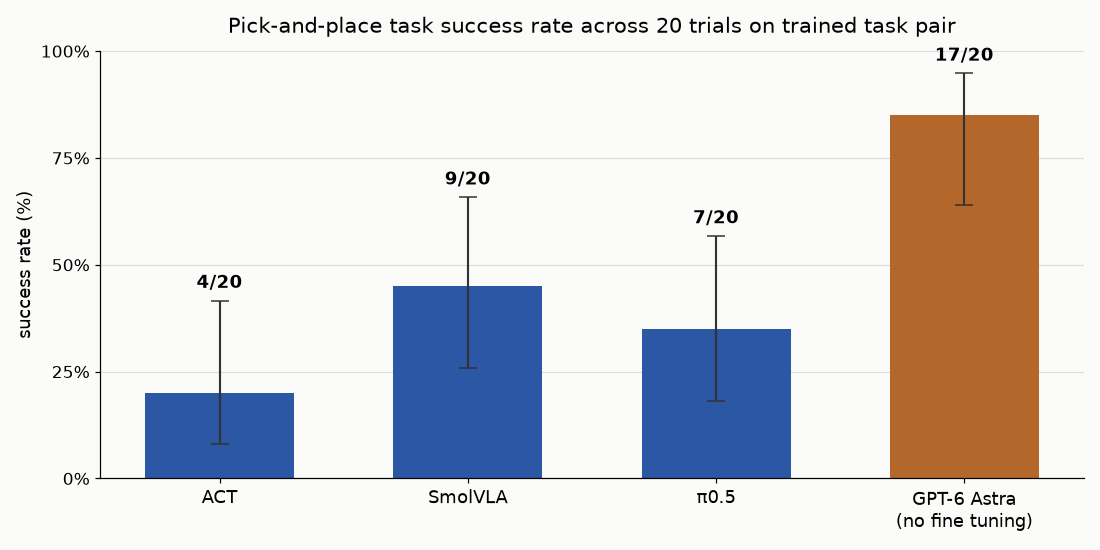
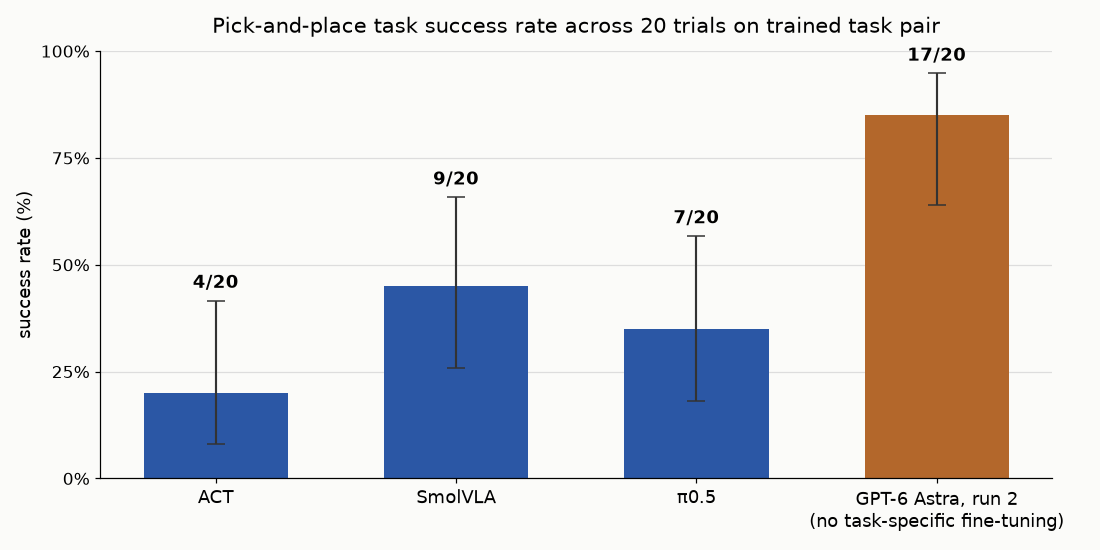
Sept 13 (late): chart wording for post #0 (stage names, demos labels, prediction legend, Astra run label), bowl labels in the overhead frame, sweep prediction record
Claude-Session: https://claude.ai/code/session_01EmA3j6H4is2ykSUSqH2bxg

diff --git a/experiments/tools/plot_results.py b/experiments/tools/plot_results.py
@@ -25,25 +25,25 @@ STAGE = {"no_reach": 0, "no_move": 0, "touch_no_grip": 1, "timeout": 1, "drop": 
 # Trials whose notes place them in a different stage than their failure bucket (read the CSV notes before adding one).
 STAGE_OVERRIDES = {("smolvla_wristonly_pair", 3): 2}  # "grasps at last chunk" then timed out
 STAGE_COLORS = ["#e8e8e3", "#c6d4ea", "#7fa3d6", "#2b57a5"]
-STAGE_NAMES = ["never reached", "reached, no grip", "grasped, lost it", "success"]
+STAGE_NAMES = ["no contact with block", "contact without grip", "grip without successful placement", "success"]
 
 # (csv name, label) in display order. All are the same 20 stickers on the trained pair unless the label says otherwise.
 RUNS = [
-    ("act100k_pair", "ACT, 100 ep, 15 passes"),
-    ("smolvla_n10_pair", "SmolVLA, 10 ep"),
-    ("smolvla_n25_pair", "SmolVLA, 25 ep"),
-    ("smolvla_n50_pair", "SmolVLA, 50 ep"),
-    ("smolvla100_pair", "SmolVLA, 100 ep, 24 passes"),
-    ("smolvla_toponly_pair", "SmolVLA, 100 ep, overhead only"),
-    ("smolvla_wristonly_pair", "SmolVLA, 100 ep, wrist only"),
-    ("pi05full_pair", "π0.5, 100 ep, 18 passes"),
+    ("act100k_pair", "ACT, 100 demos, 15 passes"),
+    ("smolvla_n10_pair", "SmolVLA, 10 demos"),
+    ("smolvla_n25_pair", "SmolVLA, 25 demos"),
+    ("smolvla_n50_pair", "SmolVLA, 50 demos"),
+    ("smolvla100_pair", "SmolVLA, 100 demos, 24 passes"),
+    ("smolvla_toponly_pair", "SmolVLA, 100 demos, overhead only"),
+    ("smolvla_wristonly_pair", "SmolVLA, 100 demos, wrist only"),
+    ("pi05full_pair", "π0.5, 100 demos, 18 passes"),
     ("astra_pair", "GPT-6 Astra"),
 ]
 MATCHED = [  # the model comparison at each library's own recipe (ACT 15, SmolVLA 24, π0.5 18 passes), same 100 episodes
     ("act100k_pair", "ACT"),
     ("smolvla100_pair", "SmolVLA"),
     ("pi05full_pair", "π0.5"),
-    ("astra_pair", "GPT-6 Astra\n(no fine tuning)"),
+    ("astra_pair", "GPT-6 Astra, run 2\n(no task-specific fine-tuning)"),
 ]
 
 
@@ -82,7 +82,6 @@ def progress_chart(out: Path) -> None:
             share = st.count(s) / len(st)
             ax.barh(i, share, left=left, color=STAGE_COLORS[s], edgecolor=BG, height=0.6)
             left += share
-        ax.text(1.02, i, f"mean progress {sum(st) / len(st):.2f} / 3", va="center", fontsize=11)
     ax.set_yticks(range(len(runs)), [l for _, l in runs], fontsize=12)
     for lab, (name, _) in zip(ax.get_yticklabels(), runs):
         if name in HEADLINE:
@@ -141,10 +140,10 @@ def scaling_chart(out: Path) -> None:
     ax.fill_between(xs, los, his, color="#2b57a5", alpha=0.12, label="95% Wilson interval (n=20)", zorder=1)
     ax.plot(xs, ps, "-o", color="#2b57a5", lw=2.2, ms=8, label="SmolVLA, measured", zorder=3)
     gx = [n for _, n, g in SWEEP if g is not None]; gy = [g / 20 for _, _, g in SWEEP if g is not None]
-    ax.scatter(gx, gy, s=140, facecolors="none", edgecolors="#888", linewidths=2, label="blind prediction", zorder=4)
+    ax.scatter(gx, gy, s=140, facecolors="none", edgecolors="#888", linewidths=2, label="prediction before evaluation", zorder=4)
     for x, p, k in zip(xs, ps, ks):
         ax.annotate(f"{k}/20", (x, p), textcoords="offset points", xytext=(0, 10), ha="center", fontsize=12)
-    ax.set_xscale("log"); ax.set_xticks(xs, [f"{n}\n({n // 2} per task)" for n in xs], fontsize=12); ax.minorticks_off()
+    ax.set_xscale("log"); ax.set_xticks(xs, [f"{n}\n(12 / 13 across tasks)" if n == 25 else f"{n}\n({n // 2} per task)" for n in xs], fontsize=12); ax.minorticks_off()
     ax.set_ylim(0, 1); ax.set_yticks([0, 0.25, 0.5, 0.75, 1], ["0%", "25%", "50%", "75%", "100%"], fontsize=11)
     ax.set_xlabel("demonstrations", fontsize=13); ax.set_ylabel("success rate", fontsize=12)
     ax.grid(axis="y", color="#ddd", zorder=0)
